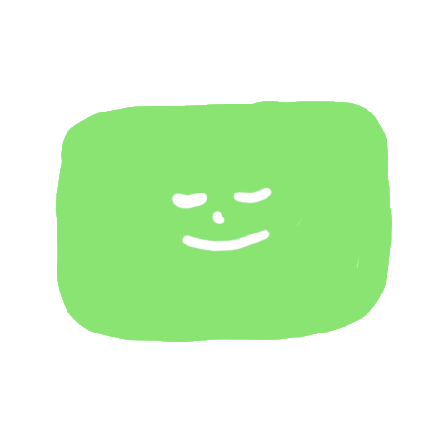
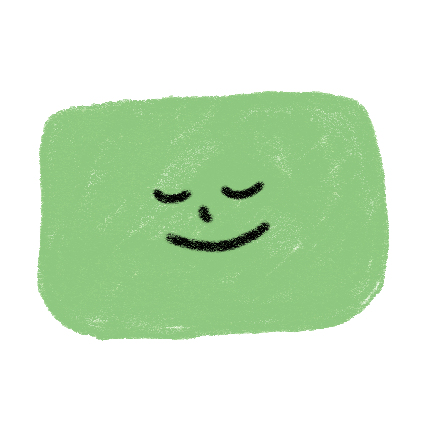
이모티콘 교체

diff --git a/OneulPrj/src/main/resources/templates/diary/futureDiary/detail.html b/OneulPrj/src/main/resources/templates/diary/futureDiary/detail.html
@@ -10,7 +10,7 @@ layout:decorator="/inc/layout">
 
 
 <main id="main" layout:fragment="main">
-	<div class="detail-wrap">
+	<div class="wrapper">
 		
                            
                            
@@ -39,15 +39,12 @@ layout:decorator="/inc/layout">
                            
                            
                               
-                              <table>
-                              
                                <img class="image" th:if="${futureDiary.image}!=''" th:src="@{/upload/diary/futureDiary/} +${futureDiary.memberId}+@{/}+${futureDiary.id}+@{/}+ ${futureDiary.image}">
-                             
-                              <textarea class="content"  rows="20" cols="30" readonly th:text = "${futureDiary.content}">                      
-                                 미래일기내용
-                              </textarea>
-                              
-                              </table>
+                             <div class="content-container">
+	                              <textarea class="content" rows="20" cols="30"  readonly th:text = "${futureDiary.content}">                      
+	                                 미래일기내용
+	                              </textarea>
+                              </div>
                           
                       
                   <div>
@@ -67,19 +64,7 @@ layout:decorator="/inc/layout">
 		
 		
 	</div>
-	<!-- container -->
-	<!-- 댓글목록 -->
-	 <div id="reply">
-		<ol th:each="n:${commentList}">
-			<p th:text="${n.memberId}"></p>
-			<p th:text="${n.regDate}"></p>
-			<p th:text="${n.content}"></p>
-			<a th:href="@{edit(id=${n.id})}">수정</a>
-			<a id ="commentDelBtn" 
-				th:href="@{commentDel(id=${n.id},futureDiaryId=${param.id})}"
-				onclick="if(!confirm('정말 삭제하시겠습니까?')) return false;">삭제</a>
-		</ol>
-	</div>
+	
 </main>
 
 

diff --git a/OneulPrj/src/main/resources/static/css/diary/futureDiary/detail.css b/OneulPrj/src/main/resources/static/css/diary/futureDiary/detail.css
@@ -1,11 +1,13 @@
 
-.detail-wrap{
+.wrapper{
 
 	display:flex;
-	margin: 10px;
-	width: 95%;
+	margin-bottom: 25px;
+	
 	flex-direction: column;
 	align-items: center;
+	height: 100%;
+	overflow: scroll;
 
 }
 
@@ -18,13 +20,25 @@
 
 .image{
     
-    max-width:95%;
+    max-width:90%;
     height:auto;
     object-fit: cover;
 }
 
-.content{
+.content-container{
+	display:flex;
+	flex-direction:column;
+	align-items: center;
 	width:100%;
+	margin-top:7px;
+	height: 40%;
+}
+
+.content{
+	width:90%;
+	height:95%;
+	resize:none;
+	
 	border : 0;
 	padding:5px;
 }

diff --git a/OneulPrj/src/main/resources/templates/diary/futureDiary/reg.html b/OneulPrj/src/main/resources/templates/diary/futureDiary/reg.html
@@ -66,7 +66,6 @@
                         <div class="file-buttons">
 	                    	<button class="btn-sel"></button>  
            				</div>
-					
 					<div class="text-input">
 						<textarea rows="20" cols="30" name="content"></textarea>
 					</div>

diff --git a/OneulPrj/src/main/resources/static/css/diary/futureDiary/edit.css b/OneulPrj/src/main/resources/static/css/diary/futureDiary/edit.css
@@ -35,6 +35,7 @@ textarea {
 	display:flex;
 	flex-direction:column;
 	align-items: center;
+	margin-bottom: 17px;
 	
 }
 .emotion-input{

diff --git a/OneulPrj/src/main/resources/static/css/diary/futureDiary/reg.css b/OneulPrj/src/main/resources/static/css/diary/futureDiary/reg.css
@@ -14,6 +14,7 @@ textarea {
 	display:flex;
 	flex-direction:column;
 	align-items: center;
+	margin-bottom: 17px;
 	
 }
 
